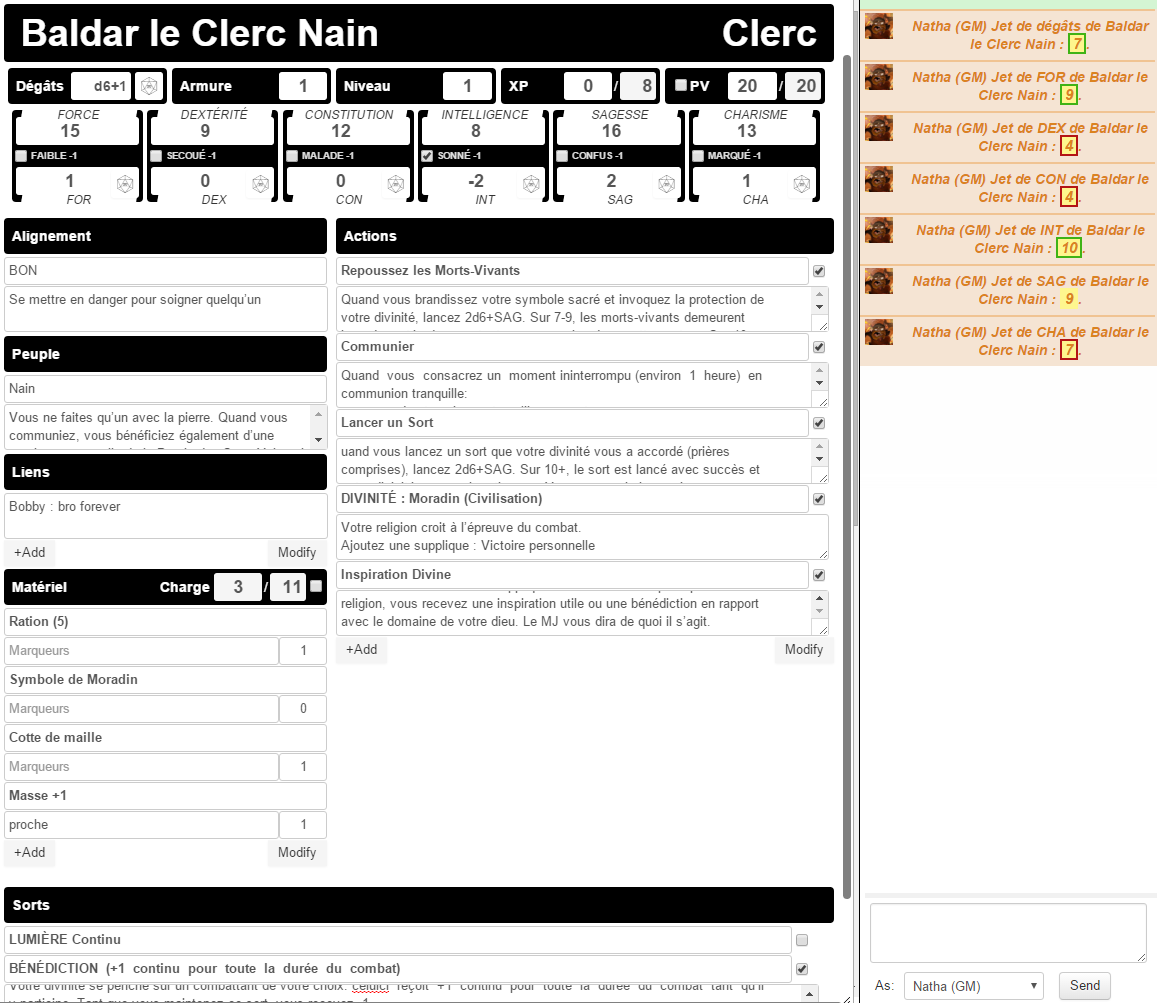
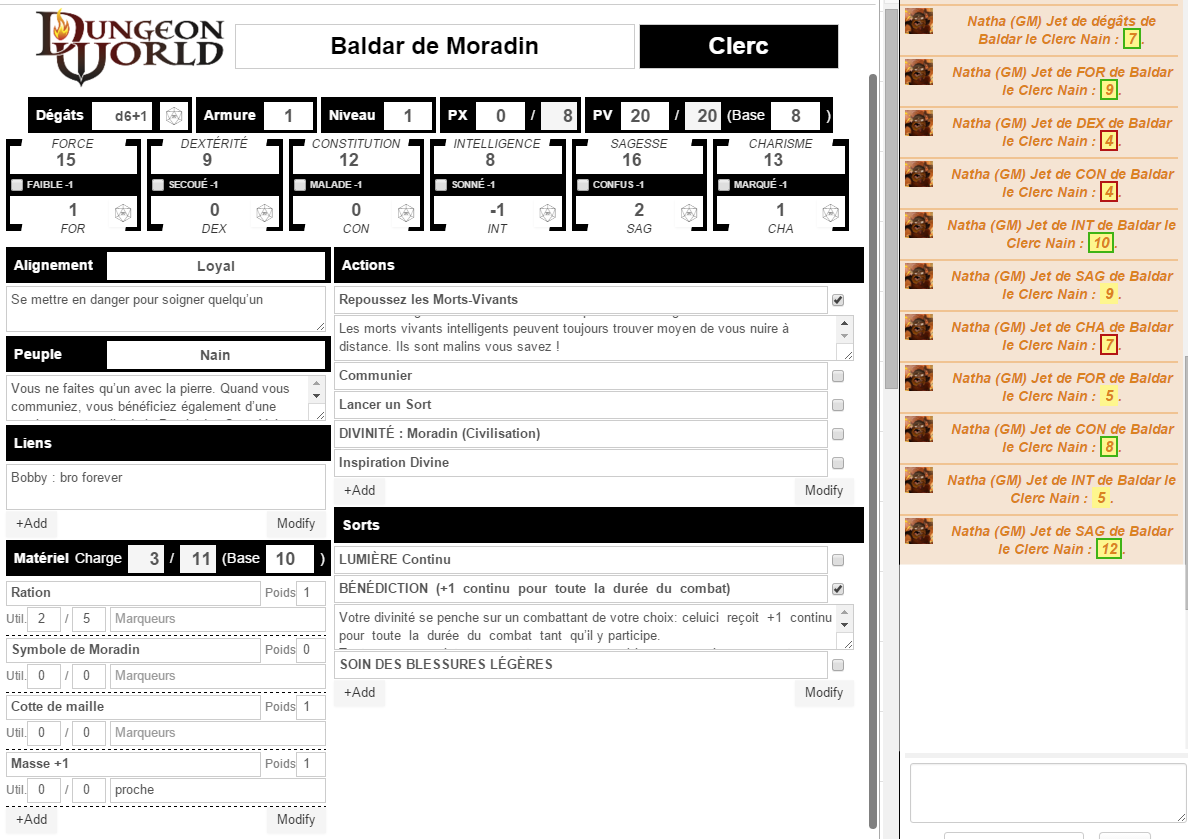
dw

diff --git a/DungeonWorldFrench/dwfr.htm b/DungeonWorldFrench/dwfr.htm
@@ -950,16 +950,19 @@ on("change:repeating_items:itemweight", function() {
             <textarea name="attr_movebody" class="sheet-hide" placeholder="Description de l'Action"></textarea>
         </fieldset>
     </div>
+
+    <!-- ===== SPELLS ===== -->
+    <div class="sheet-header" style="width: 100%;">
+        <div class="sheet-section-name" style="width: 100%;">Sorts</div>
+    </div>
+    <div class="sheet-section-spells">
+        <fieldset class="repeating_spells sheet-section-spells">
+            <input type="text" name="attr_spellname" style="font-weight: bold;" placeholder="Nom du Sort">
+            <input type="checkbox" class="sheet-toggle" title="Afficher/Masquer la description du sort" name="attr_spell-show" value="1" />
+            <textarea name="attr_spellbody" class="sheet-hide" placeholder="Description du Sort"></textarea>
+        </fieldset>
+    </div>
+
 </div>
 
-<!-- ===== SPELLS ===== -->
-<div class="sheet-header" style="width: 100%;">
-    <div class="sheet-section-name" style="width: 100%;">Sorts</div>
-</div>
-<div class="sheet-section-spells">
-    <fieldset class="repeating_spells sheet-section-spells">
-        <input type="text" name="attr_spellname" style="font-weight: bold;" placeholder="Nom du Sort">
-        <input type="checkbox" class="sheet-toggle" title="Afficher/Masquer la description du sort" name="attr_spell-show" value="1" />
-        <textarea name="attr_spellbody" class="sheet-hide" placeholder="Description du Sort"></textarea>
-    </fieldset>
-</div>
+

diff --git a/DungeonWorldFrench/dwfr.css b/DungeonWorldFrench/dwfr.css
@@ -331,7 +331,8 @@ input[read-only] {
 /* ===== TWEAKS ===== */
 .sheet-section-moves textarea,
 .sheet-section-alignment textarea,
-.sheet-section-race textarea{
+.sheet-section-race textarea,
+.sheet-section-spells textarea {
 	resize: vertical;
 }
 .sheet-section-moves input[name="attr_movename"],

diff --git a/DungeonWorldFrench/ReadMe.md b/DungeonWorldFrench/ReadMe.md
@@ -3,7 +3,7 @@
 Feuille de Personnage en français pour [Dungeon World](http://dungeonworld-fr.blogspot.fr/), adaptée de la feuille VO de Willem den Besten (Morenim) et Devindra Payment (@Ardnived).
 
 # Version courante
-1.0 [Capture d'écran](dwfr.png)
+1.1 [Capture d'écran](dwfr.png)
 
 # Notes de version
 
@@ -12,6 +12,7 @@ Feuille de Personnage en français pour [Dungeon World](http://dungeonworld-fr.b
 * Affichage légèrement plus compact
 * Ajout du nombre d'utilisations (courante et maximum) dans le matériel
 * Affichage direct de la base de PV et de la base de Charge 
+* Reformatage des sorts sur la colonne de droite, sous les actions
 
 ##v1.0 (2016-02-21)
 Création de la fiche.
